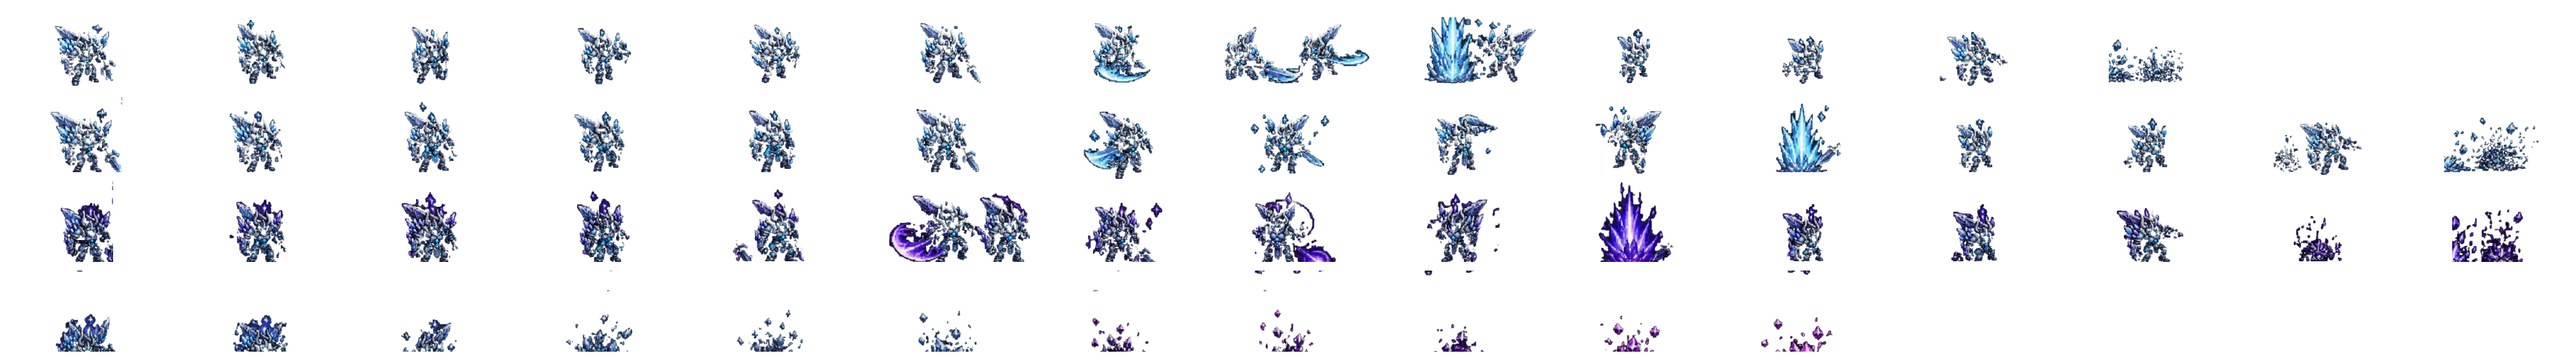
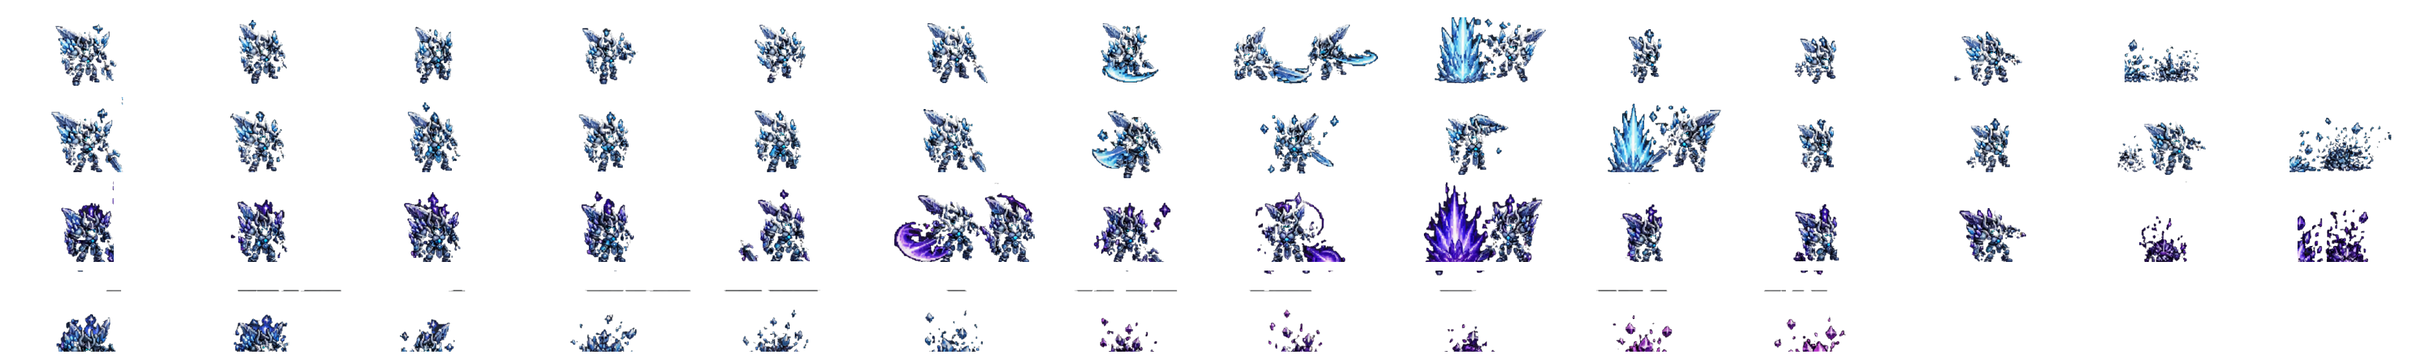
B3 polish: Crystal Warden body no longer full of holes (dark background removed only as large connected regions) and only whole single-body frames; phase changes readable (per-phase glow colour + size, white pulse while transforming, PHASE n/4 label, crystal-coloured reflections); City 2 gets a sepa

diff --git a/src/boss/areaBoss.js b/src/boss/areaBoss.js
@@ -221,6 +221,9 @@ export class AreaBoss extends Entity {
     const pa = this.look.phaseAura && this.look.phaseAura[this.phase];
     if (pa && pa.transition) pa.transition.forEach((k, i) => g.after(i * (pa.step || 0.4), () => !this.dead && g.vfx.sprite(k, this.x, this.y + 6, 0, { life: pa.stepLife || 0.7, scale: pa.scale || 1.4, glow: 0.45, ground: true, squash: 0.75, alpha: 0.85 })));
     g.ui.callout(ph.name, ph.sub || '', '#e0b0ff');
+    const nPh = this.def.phases.length, ps = (this.look.phaseStyle && this.look.phaseStyle[this.phase]) || {};
+    if (nPh > 1) g.vfx.text(this.x, this.y - this.height * this.scale - 30, `PHASE ${this.phase} / ${nPh}`, { color: ps.aura ? `rgb(${ps.aura})` : '#ffe0a0', size: 18, life: 2.2, vy: -12 });
+    this.flash = 0.3;
     if (ph.shockwave) {
       const tel = this.tele({ shape: 'ring', x: this.x, y: this.y, r0: 20, r: 170, total: 1.1 });
       yield 1.1;
@@ -560,15 +563,17 @@ AreaBoss.prototype.draw = function draw(ctx) {
   const x = Math.round(this.x), y = Math.round(this.y);
   const alpha = this.dead ? Math.max(0, 1 - Math.max(0, this.deathT - 1.2)) : 1;
   if (alpha <= 0) return;
-  const aura = this.look.aura || '255,120,120';
+  // look.phaseStyle[phase] = { aura: 'r,g,b', glow: px, scale } — every phase reads differently at a glance
+  const ps = (this.look.phaseStyle && this.look.phaseStyle[this.phase]) || {};
+  const aura = ps.aura || this.look.aura || '255,120,120';
   // shadow + aura
   const sh = 1 - this.air / 200;
   ctx.fillStyle = `rgba(0,0,0,${0.4 * alpha})`;
   ctx.beginPath(); ctx.ellipse(x, y, this.radius * 1.5 * sh, this.radius * 0.55 * sh, 0, 0, TAU); ctx.fill();
   if (!this.dead && this.state !== 'dormant') {
     ctx.globalCompositeOperation = 'lighter';
-    ctx.fillStyle = `rgba(${aura},${0.16 + 0.08 * Math.sin(t * 4)})`;
-    ctx.beginPath(); ctx.ellipse(x, y, this.radius * 2.1, this.radius * 0.8, 0, 0, TAU); ctx.fill();
+    ctx.fillStyle = `rgba(${aura},${(ps.glow ? 0.26 : 0.16) + 0.08 * Math.sin(t * 4)})`;
+    ctx.beginPath(); ctx.ellipse(x, y, this.radius * (ps.glow ? 2.6 : 2.1), this.radius * (ps.glow ? 1 : 0.8), 0, 0, TAU); ctx.fill();
     ctx.globalCompositeOperation = 'source-over';
   }
   ctx.save();
@@ -580,11 +585,14 @@ AreaBoss.prototype.draw = function draw(ctx) {
   const s = this.sprites;
   if (s && s.sheet) {
     const fr = this.sheetFrame(s);
-    const sc = this.scale, w = s.w * sc, h = s.h * sc, ax = s.ax * sc, ay = s.ay * sc;
+    const sc = this.scale * (ps.scale || 1), w = s.w * sc, h = s.h * sc, ax = s.ax * sc, ay = s.ay * sc;
     if (this.state === 'dormant') ctx.filter = 'brightness(0.75)';
+    else if (ps.glow && !this.dead) ctx.filter = `drop-shadow(0 0 ${ps.glow}px rgb(${aura}))`;
     ctx.drawImage(fr, -ax, -ay, w, h);
     ctx.filter = 'none';
     if (this.flash > 0 && !this.dead) { ctx.globalAlpha = Math.min(1, this.flash * 10); ctx.drawImage(flashOf(fr), -ax, -ay, w, h); }
+    // the transformation: the body pulses white while it changes form
+    if (this.state === 'transition' && !this.dead) { ctx.globalCompositeOperation = 'lighter'; ctx.globalAlpha = 0.35 + 0.35 * Math.sin(g.time * 18); ctx.drawImage(flashOf(fr), -ax, -ay, w, h); ctx.globalCompositeOperation = 'source-over'; }
     if (this.status.has('vulnerable') && !this.dead) {
       ctx.globalCompositeOperation = 'lighter';
       ctx.globalAlpha = 0.25 + 0.2 * Math.sin(g.time * 14);

diff --git a/src/maps/asteriaCity.js b/src/maps/asteriaCity.js
@@ -38,8 +38,13 @@ export function buildAsteriaTerrain(b) {
   b.rect(K.gate[0], K.y1, K.gate[1], K.y1 + 1, C);
   b.rect(K.road[0], 135, K.road[1], 157, C);
   for (let y = 8; y <= 142; y++) for (let x = K.road[0]; x <= K.road[1]; x++) { const t = m.get(x, y); if (t === T.WATER || t === T.SHALLOW) m.set(x, y, T.BRIDGE); }
-  b.rect(0, 0, m.w - 1, 1, T.CLIFF); b.rect(0, m.h - 2, m.w - 1, m.h - 1, T.CLIFF);
-  b.rect(0, 0, 1, m.h - 1, T.CLIFF); b.rect(m.w - 2, 0, m.w - 1, m.h - 1, T.CLIFF);
+  // the EAST GATE (Route B, from Frostpeak): a gap in the wall on the cross avenue, a bridge over the moat, a road to the edge
+  b.rect(K.x1 - 1, 65, K.x1, 69, C);
+  b.rect(K.x1 + 1, 66, m.w - 1, 68, C);
+  for (let x = K.x1; x <= 157; x++) for (let y = 66; y <= 68; y++) { const t = m.get(x, y); if (t === T.WATER || t === T.SHALLOW) m.set(x, y, T.BRIDGE); }
+  b.rect(0, 0, m.w - 1, 1, T.CLIFF); b.rect(0, m.h - 2, m.w - 1, m.h - 2, T.CLIFF); b.rect(0, m.h - 1, m.w - 1, m.h - 1, T.CLIFF);
+  b.rect(0, 0, 1, m.h - 1, T.CLIFF);
+  b.rect(m.w - 2, 0, m.w - 1, 64, T.CLIFF); b.rect(m.w - 2, 70, m.w - 1, m.h - 1, T.CLIFF); // (east edge open at the road)
 
   // ---------------- streets: avenues, lanes, the canal across the upper city
   const streets = [
@@ -82,7 +87,10 @@ export function buildAsteriaTerrain(b) {
     if (Math.abs(x - 80) > 8) b.prop(x % 8 ? 'a_wall_a' : 'a_wall_b', x, K.y1 + 1, {});
     b.prop(x % 16 === 0 ? 'a_wall_gate' : 'a_wall_a', x, K.y0 + 1, {});
   }
-  for (let y = K.y0 + 8; y <= K.y1 - 6; y += 8) for (const x of [K.x0 + 1, K.x1 - 1]) b.prop(y % 16 ? 'a_tower_thin' : 'a_tower_b', x, y, { scale: 0.8 });
+  for (let y = K.y0 + 8; y <= K.y1 - 6; y += 8) for (const x of [K.x0 + 1, K.x1 - 1]) { if (x > 80 && Math.abs(y - 67) < 6) continue; b.prop(y % 16 ? 'a_tower_thin' : 'a_tower_b', x, y, { scale: 0.8 }); }
+  // the East Gate's towers + banners (Route B)
+  for (const y of [63, 72]) b.prop('a_tower_round', K.x1, y, { scale: 0.8 });
+  for (const y of [64, 71]) b.prop('a_banner_stand_a', K.x1 - 3, y, { solid: true, scale: 0.8 });
   b.prop('a_castle_gate', 80, K.y1 + 1, { light: { r: 100, color: '#ffc870', a: 0.6, oy: -60 } });
   for (const x of [75, 85]) b.prop('a_banner_stand_c', x, 130, { solid: true, scale: 0.8 });
 
@@ -163,7 +171,7 @@ export function buildAsteriaTerrain(b) {
   // the forest ring outside the moat (tries only there, so it fills up; the south road stays clear)
   for (let n = 0, guard = 0; n < 200 && guard < 6000; guard++) {
     const side = r.int(0, 3), x = side === 0 ? r.int(2, 7) : side === 1 ? r.int(153, m.w - 3) : r.int(2, m.w - 3), y = side < 2 ? r.int(2, m.h - 3) : side === 2 ? r.int(2, 7) : r.int(143, m.h - 3);
-    if (m.get(x, y) !== G || Math.abs(x - 80) < 6 || m.blocker[m.idx(x, y)]) continue;
+    if (m.get(x, y) !== G || Math.abs(x - 80) < 6 || (x > 140 && Math.abs(y - 67) < 6) || m.blocker[m.idx(x, y)]) continue;
     n++;
     b.prop(r.pick(['a_pine_a', 'a_pine_b', 'a_pine_c', 'a_pine_d', 'a_tree_tall_a', 'a_tree_tall_b', 'a_tree_pine_s']), x, y, { solid: true, scale: 0.75, flip: r.chance(0.5) });
   }

diff --git a/src/maps/city2.js b/src/maps/city2.js
@@ -7,13 +7,14 @@ import { Z } from '../core/constants.js';
 export const CITY2 = {
   id: 'city2', name: 'ASTERIA CITY', short: 'Asteria', sub: 'City 2 · Safe Zone', grid: 'asteria',
   type: 'city', safe: true, route: 'A',
-  // either route's Major Boss opens it (Route B's is data only for now)
-  requires: [{ type: 'any', of: [{ type: 'boss_defeated', boss: 'boss_a3' }, { type: 'boss_defeated', boss: 'boss_b3' }], label: 'Defeat a Major Boss (Route A: the Rune Knight)' }],
+  // either route's Major Boss opens it
+  requires: [{ type: 'any', of: [{ type: 'boss_defeated', boss: 'boss_a3' }, { type: 'boss_defeated', boss: 'boss_b3' }], label: 'Defeat a Major Boss (Route A: the Rune Knight · Route B: the Crystal Warden)' }],
   region: { zones: [Z.ASTERIA] },
   spawn: [80, 150],
   exits: [
-    { id: 'south_road', rect: [77, 157, 80, 157], to: 'sanctum', entry: [84, 9], label: 'The Sanctum (Route A)' },
-    { id: 'frost_road', rect: [81, 157, 83, 157], to: 'summit', entry: [90, 14], label: 'The Summit Citadel (Route B)' },
+    // Route A arrives by the South Gate (from the Sanctum), Route B by the East Gate (from Frostpeak) — two separate roads
+    { id: 'south_road', rect: [77, 157, 83, 157], to: 'sanctum', entry: [84, 9], label: 'The Sanctum (Route A)' },
+    { id: 'east_road', rect: [158, 66, 158, 68], to: 'summit', entry: [90, 14], label: 'Frostpeak Summit (Route B)' },
   ],
   content: {
     npcs: [
@@ -30,7 +31,7 @@ export const CITY2 = {
       { id: 'a_storage', kind: 'storage', tx: 74, ty: 76, prompt: 'Open Storage' },
       {
         id: 'a_notice', kind: 'sign', tx: 74, ty: 128, prompt: 'Read Notice', title: 'Asteria City — South Gate',
-        text: 'ASTERIA CITY (City 2)\n• Crystal Plaza — waystone and storage by the fountain.\n• Grand Bazaar (west) · Forge Row (south-west) · Adventurer Guild (east).\n• The Keep (north) is closed to travelers.\n\n"The Warden in the Sanctum kept the dead city from the living one. If you walked past him, the city owes you." — City Watch',
+        text: 'ASTERIA CITY (City 2)\n• South Gate: the road to the Sanctum (Route A). East Gate: the road to Frostpeak (Route B).\n• Crystal Plaza — waystone and storage by the fountain.\n• Grand Bazaar (west) · Forge Row (south-west) · Adventurer Guild (east).\n• The Keep (north) is closed to travelers.\n\n"The Warden in the Sanctum kept the dead city from the living one. If you walked past him, the city owes you." — City Watch',
       },
     ],
   },

diff --git a/src/data/bosses.js b/src/data/bosses.js
@@ -294,6 +294,8 @@ export const BOSSES = {
     stats: { hp: 24000, def: 16, speed: 104, radius: 22, height: 64, mass: 8, weakness: ['physical'], superArmor: true, poise: 1300 },
     look: {
       sprite: 'crystal_warden', scale: 1.15, aura: '150,200,255',
+      // each phase its own glow / size: pale ice -> bright cyan -> violet corruption -> magenta, larger (enraged)
+      phaseStyle: { 1: { aura: '150,200,255' }, 2: { aura: '90,220,255', glow: 5 }, 3: { aura: '170,100,255', glow: 7, scale: 1.05 }, 4: { aura: '230,80,255', glow: 10, scale: 1.14 } },
       anims: { idle: 'p1_idle', walk: 'p1_move', windup: 'p1_wind', attack: 'p1_hit', hurt: 'p1_hurt', roar: 'p1_special' },
       phaseAnims: { 2: { idle: 'p2_idle', walk: 'p2_move', windup: 'p2_wind', attack: 'p2_hit', hurt: 'p2_hurt', roar: 'p2_special' }, 3: { idle: 'p3_idle', walk: 'p3_move', windup: 'p3_wind', attack: 'p3_hit', hurt: 'p3_hurt', roar: 'p3_special' }, 4: { idle: 'p3_idle', walk: 'p3_move', windup: 'p3_wind', attack: 'p3_hit', hurt: 'p3_hurt', roar: 'p3_special' } },
       vfx: { charge: 'w_spark', slash: 'w_slash', impact: 'w_crater', bolt: 'w_bolt', eruption: 'w_spikes', nova: 'w_eruption', phase: 'w_burst', sigil: 'w_sigil', pillar: 'w_pillar', shatter: 'w_shatter', spark: 'w_sparkle', echo: 'w_crystal', burst: 'w_blast' },
@@ -330,7 +332,7 @@ export const BOSSES = {
     // SIGNATURE (boss/mechanics.js). Order = priority when several want the next turn.
     mechanics: [
       { type: 'pylons', phase: 4, at: 0.1, count: 3, hp: 380, channel: 14, dist: 150, power: 80, weak: 7, retry: 16, name: 'SHATTERED ECLIPSE' },
-      { type: 'echoes', phase: 3, count: 2, life: 14, every: 22, delay: 0.3, sprite: 'crystal_warden' },
+      { type: 'echoes', phase: 3, count: 2, life: 14, every: 22, delay: 0.3, sprite: 'crystal_warden', filter: 'brightness(1.7) saturate(1.5)', scale: 1.1 }, // pale crystal copies (no hue shift: the Warden is already blue)
       { type: 'rune_sequence', phase: 2, every: 12, count: 4, r: 56, power: 36, gap: 0.55, delay: 1.1 },
     ],
     rewards: { exp: 1500, gold: 500, loot: 'crystal_warden', items: { warden_crest: 1 }, lore: 'crystal_warden' },

diff --git a/tools/build-monsters.js b/tools/build-monsters.js
@@ -424,9 +424,21 @@ function centreOf(im, bb) {
 function buildMonster(id, def, probe) {
   const img = png.read(path.join(ROOT, SRC, def.file));
   const bg = removeBackground(img, def.pocket);
-  if (def.darkBg) { // dark checkerboard sheets: every dark NEUTRAL pixel is background (the art's darks are tinted)
-    const d = img.data;
-    for (let i = 0; i < d.length; i += 4) { const mx = Math.max(d[i], d[i + 1], d[i + 2]), mn = Math.min(d[i], d[i + 1], d[i + 2]); if (mx - mn <= def.darkBg.neutral && (d[i] + d[i + 1] + d[i + 2]) / 3 <= def.darkBg.lum) d[i + 3] = 0; }
+  if (def.darkBg) {
+    // dark checkerboard sheets: background = dark NEUTRAL pixels in [minLum, lum] that form a LARGE connected region.
+    // The art's own dark greys sit inside its black outline (below minLum), so they are separate small regions and stay.
+    const d = img.data, W = img.width, H = img.height, o = def.darkBg, minLum = o.minLum ?? 16;
+    const bgLike = (p) => { const i = p * 4, mx = Math.max(d[i], d[i + 1], d[i + 2]), mn = Math.min(d[i], d[i + 1], d[i + 2]), l = (d[i] + d[i + 1] + d[i + 2]) / 3; return d[i + 3] && mx - mn <= o.neutral && l >= minLum && l <= o.lum; };
+    const seen = new Uint8Array(W * H);
+    for (let p = 0; p < W * H; p++) {
+      if (seen[p] || !bgLike(p)) continue;
+      const comp = [p]; seen[p] = 1;
+      for (let k = 0; k < comp.length; k++) {
+        const q = comp[k], x = q % W;
+        for (const r of [x > 0 ? q - 1 : -1, x < W - 1 ? q + 1 : -1, q - W, q + W]) if (r >= 0 && r < W * H && !seen[r] && bgLike(r)) { seen[r] = 1; comp.push(r); }
+      }
+      if (comp.length >= (o.region || 3000)) for (const q of comp) d[q * 4 + 3] = 0;
+    }
   }
   if (def.clearLight) { // blurry sheets: light grey-white gaps between limbs (never real colour) become transparent
     const d = img.data;

diff --git a/src/data/monsterArt.js b/src/data/monsterArt.js
@@ -262,11 +262,12 @@ export const MONSTER_ART = {
   // B3 MAJOR BOSS: the Crystal Warden (blob-cut frames per form: p1 dormant, p2 awakened, p3 corrupted)
   crystal_warden: {
     sheet: 'crystal_warden', replaces: ['crystal_warden'],
+    // only frames that hold ONE whole body (the sheet also has spike-only and two-pose shapes — left out)
     anims: {
-      idle: ['p1', [0, 1, 2]], move: ['p1', [3, 4]], windup: ['p1', [5]], attack: ['p1', [6, 7]], hurt: ['p1', [9, 10]], death: 'death',
-      p1_idle: ['p1', [0, 1, 2]], p1_move: ['p1', [3, 4]], p1_wind: ['p1', [5]], p1_hit: ['p1', [6, 7]], p1_hurt: ['p1', [9, 10, 11]], p1_special: ['p1', [8]],
-      p2_idle: ['p2', [0, 1, 2]], p2_move: ['p2', [3, 4]], p2_wind: ['p2', [5, 9]], p2_hit: ['p2', [6, 7, 8]], p2_hurt: ['p2', [11, 12, 13]], p2_special: ['p2', [9, 10]],
-      p3_idle: ['p3', [0, 1, 2]], p3_move: ['p3', [3, 4]], p3_wind: ['p3', [6]], p3_hit: ['p3', [5, 7]], p3_hurt: ['p3', [10, 11, 12]], p3_special: ['p3', [8, 9]],
+      idle: ['p1', [0, 1, 2]], move: ['p1', [3, 4]], windup: ['p1', [5]], attack: ['p1', [6]], hurt: ['p1', [9, 10]], death: 'death',
+      p1_idle: ['p1', [0, 1, 2]], p1_move: ['p1', [3, 4]], p1_wind: ['p1', [5]], p1_hit: ['p1', [6]], p1_hurt: ['p1', [9, 10, 11]], p1_special: ['p1', [5]],
+      p2_idle: ['p2', [0, 1, 2]], p2_move: ['p2', [3, 4]], p2_wind: ['p2', [5]], p2_hit: ['p2', [6, 7, 8]], p2_hurt: ['p2', [10, 11, 12]], p2_special: ['p2', [7]],
+      p3_idle: ['p3', [0, 1, 2]], p3_move: ['p3', [3, 4]], p3_wind: ['p3', [6]], p3_hit: ['p3', [7]], p3_hurt: ['p3', [9, 10, 11]], p3_special: ['p3', [6]],
     },
     fps: { idle: 4, move: 5 },
   },

diff --git a/src/boss/mechanics.js b/src/boss/mechanics.js
@@ -214,7 +214,7 @@ class Echoes {
       const a = Math.min(1, e.life) * (0.45 + 0.1 * Math.sin(this.b.animT * 4));
       ctx.save(); ctx.globalAlpha = a; ctx.translate(e.x, e.y);
       if (Math.cos(angleTo(e.x, e.y, this.b.game.player.x, this.b.game.player.y)) < 0) ctx.scale(-1, 1);
-      if (set) { const fr = set.idle[0], s = 1.1; ctx.filter = 'hue-rotate(160deg) brightness(1.4)'; ctx.drawImage(fr, -set.ax * s, -set.ay * s, set.w * s, set.h * s); ctx.filter = 'none'; }
+      if (set) { const fr = set.idle[0], s = this.d.scale || 1.1; ctx.filter = this.d.filter || 'hue-rotate(160deg) brightness(1.4)'; ctx.drawImage(fr, -set.ax * s, -set.ay * s, set.w * s, set.h * s); ctx.filter = 'none'; }
       else { ctx.fillStyle = 'rgba(140,190,255,0.6)'; ctx.beginPath(); ctx.ellipse(0, -20, 12, 20, 0, 0, TAU); ctx.fill(); }
       ctx.restore();
     }

diff --git a/src/maps/summit.js b/src/maps/summit.js
@@ -15,6 +15,6 @@ export const SUMMIT = {
   exits: [
     { id: 'summit_gate', rect: [88, 49, 92, 49], to: 'b3', entry: [90, 57], label: 'Frostpeak' },
     // the north road must sit inside the summit zone (tiles within 22 of the arena centre)
-    { id: 'north_road', rect: [89, 8, 91, 8], to: 'city2', entry: [82, 154], label: 'Asteria City' },
+    { id: 'north_road', rect: [89, 8, 91, 8], to: 'city2', entry: [154, 67], label: 'Asteria City (East Gate)' },
   ],
 };

diff --git a/CLAUDE.md b/CLAUDE.md
@@ -472,5 +472,11 @@ Push to GitHub (`origin` = github.com/jepzaze6665-dev/EO-ver0.1, branch `main`) 
   (2) the boss seemed to vanish on a phase change -> the phase burst was scale 2.4 on top of it: now scale 1.2 / alpha 0.55,
   and look.phaseAura effects play on the GROUND layer under the boss (AreaBoss + Guardian).
   Gotcha: never put a `//` comment in the middle of a one-line statement (it comments out the rest -> the whole game breaks).
+  B3 polish (owner): the Warden body had holes (darkBg erased the armour's dark greys) -> darkBg only clears LARGE connected
+  dark-neutral regions between [minLum, lum] (the black outline protects the art); only single-body frames are used. Phases
+  readable: AreaBoss look.phaseStyle[phase] = { aura, glow (drop-shadow px), scale } + a white pulse on the body during the
+  transformation + a PHASE n / N label (Warden: pale ice -> cyan -> violet -> magenta, larger). Echoes take data filter /
+  scale (no hue shift on the blue Warden). City 2 has TWO roads: South Gate = Route A (Sanctum), EAST GATE = Route B (the
+  summit north road arrives at [154,67]; exit east_road, bridge over the moat, towers).
   Next: owner decides (Route A/B both complete; City 2 content, balance with a human player, F3 debug overlay).
 - Known art limits: AG walk sheet barely moves its legs (a code step-bob compensates; new walk art would fix it).
